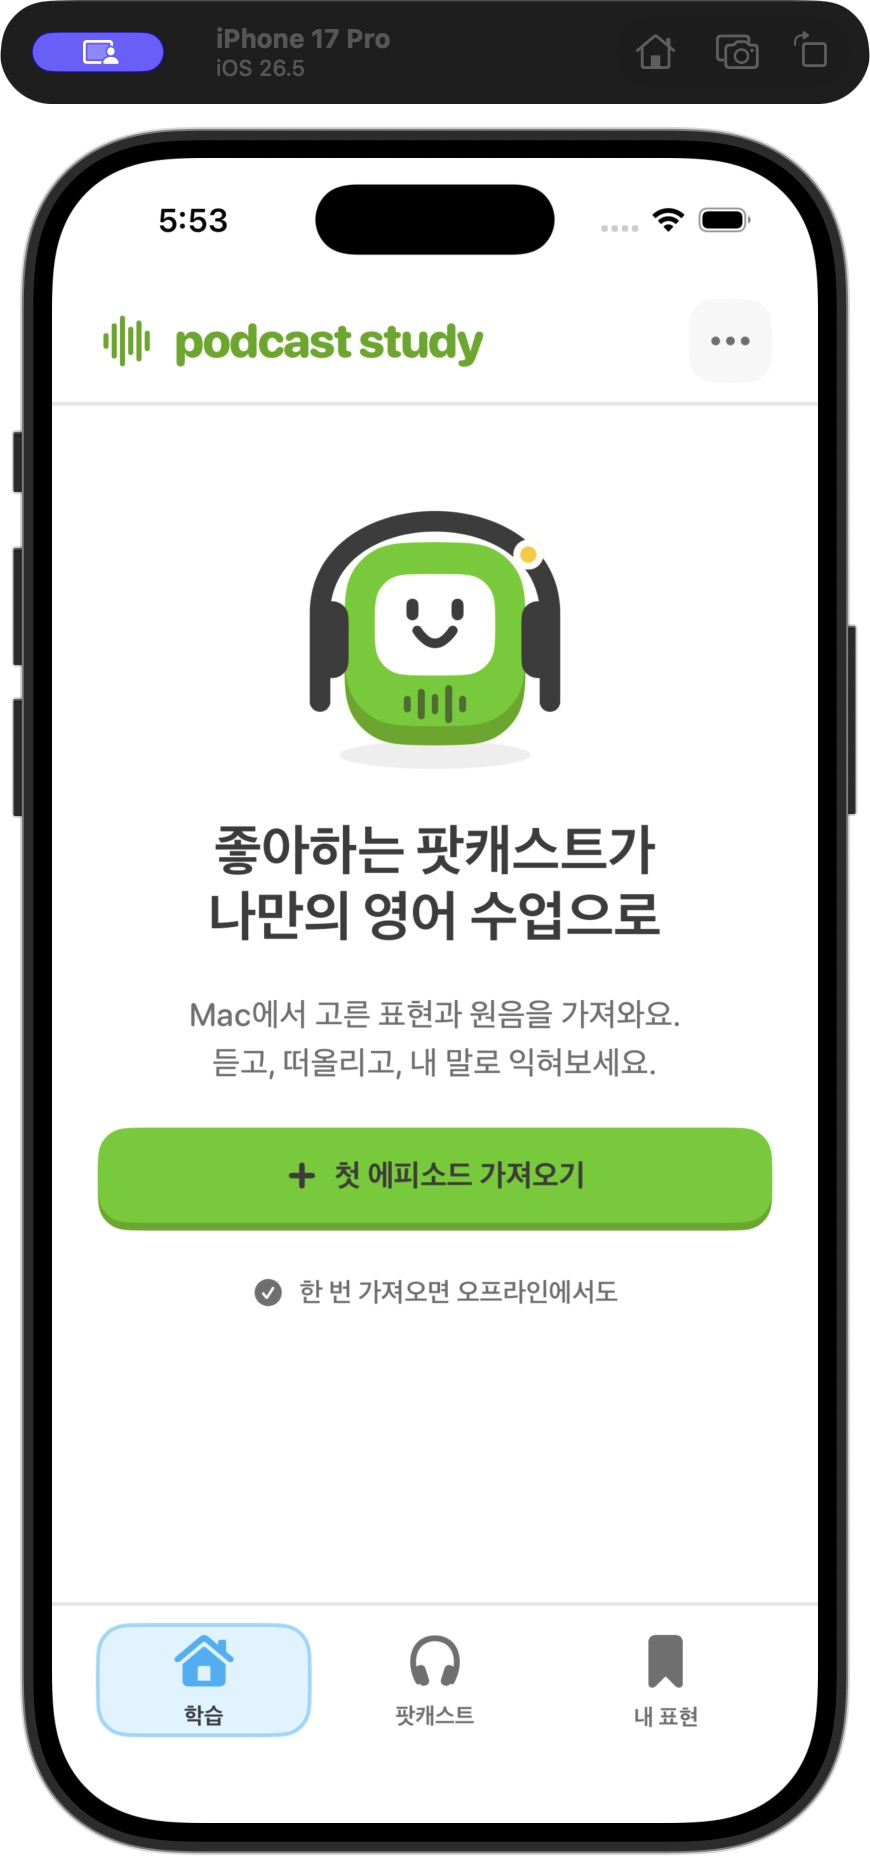
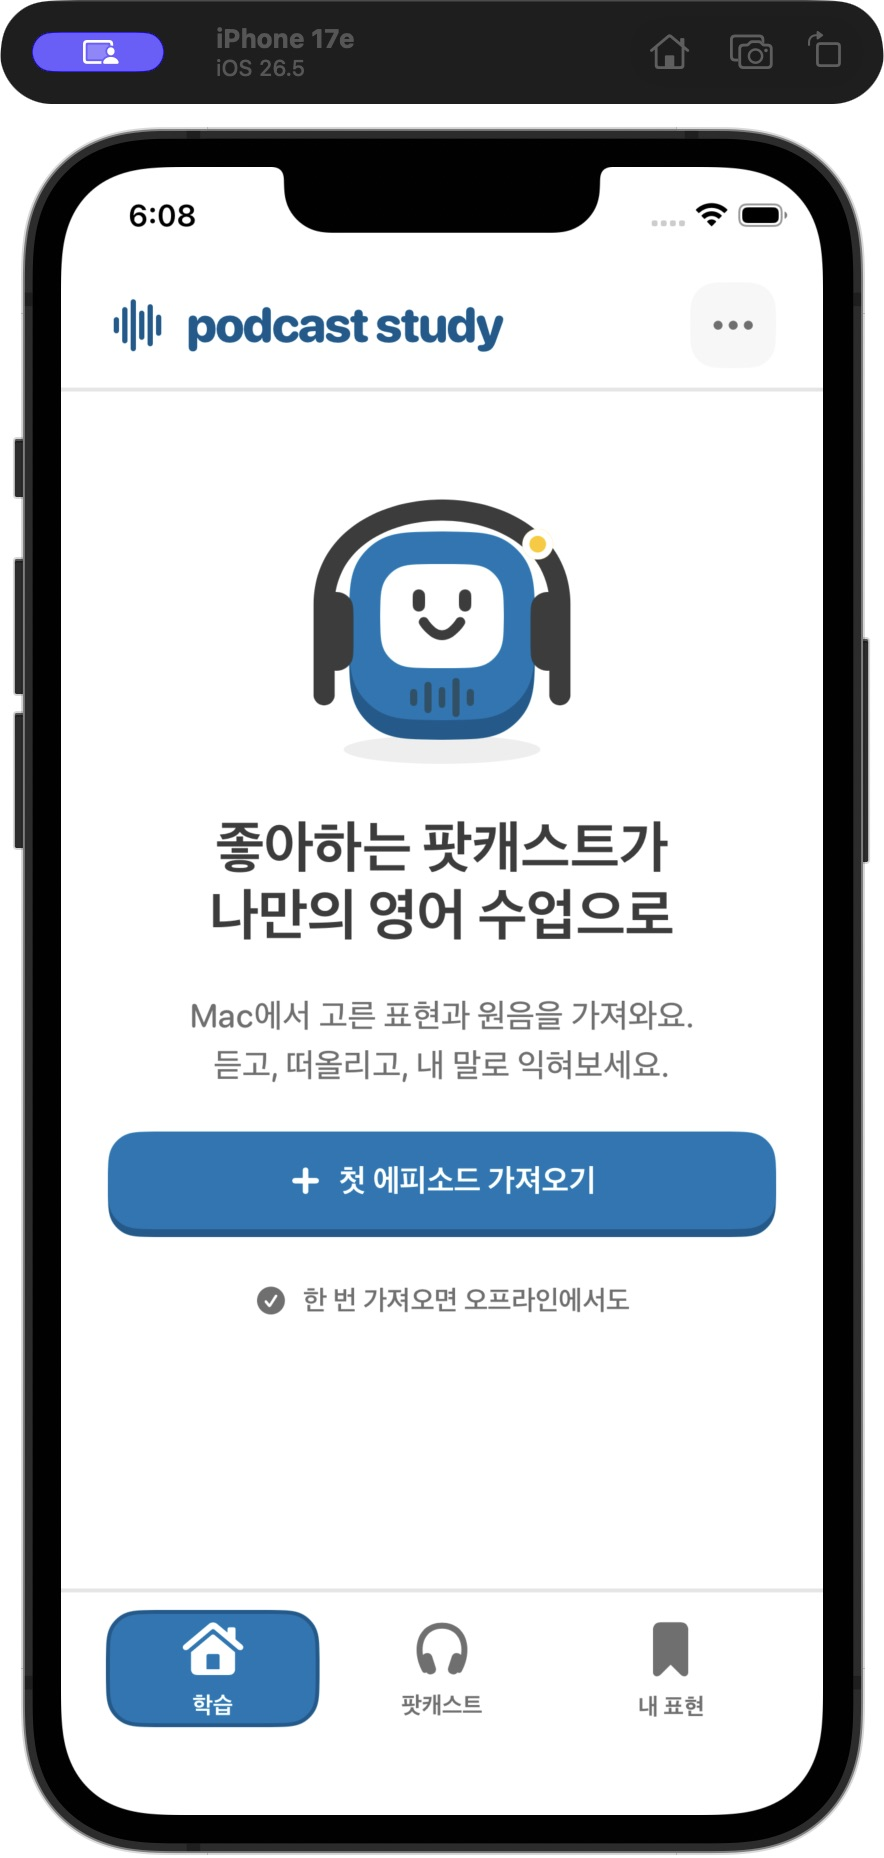
style(ios): unify sky-blue accents and white button labels

diff --git a/ios/PodcastStudy/App/StudyDesign.swift b/ios/PodcastStudy/App/StudyDesign.swift
@@ -8,11 +8,11 @@ enum StudyStyle {
     static let ink = Color(hex: 0x3C3C3C)
     static let muted = Color(hex: 0x6F6F6F)
     static let line = Color(hex: 0xE5E5E5)
-    static let accent = Color(hex: 0x58CC02)
-    static let accentDeep = Color(hex: 0x58A700)
-    static let greenTint = Color(hex: 0xD7FFB8)
-    static let blue = Color(hex: 0x1CB0F6)
-    static let blueTint = Color(hex: 0xDDF4FF)
+    static let accent = Color(hex: 0x0077B6)
+    static let accentDeep = Color(hex: 0x005A8D)
+    static let accentTint = Color(hex: 0xE4F4FC)
+    static let blue = accent
+    static let blueTint = accentTint
     static let yellow = Color(hex: 0xFFC800)
     static let orange = Color(hex: 0xFF9600)
     static let red = Color(hex: 0xFF4B4B)
@@ -67,7 +67,7 @@ struct StudyButtonStyle: ButtonStyle {
         if !isEnabled { return tone == .quiet ? .clear : StudyStyle.line }
         switch tone {
         case .primary: return StudyStyle.accent
-        case .secondary: return StudyStyle.blueTint
+        case .secondary: return StudyStyle.accent
         case .outline: return StudyStyle.paper
         case .quiet: return .clear
         }
@@ -77,9 +77,17 @@ struct StudyButtonStyle: ButtonStyle {
         guard isEnabled else { return StudyStyle.line }
         switch tone {
         case .primary: return StudyStyle.accentDeep
-        case .secondary: return StudyStyle.blue
+        case .secondary: return StudyStyle.accentDeep
         case .outline: return StudyStyle.line
         case .quiet: return .clear
+        }
+    }
+
+    private var labelColor: Color {
+        guard isEnabled else { return StudyStyle.muted }
+        switch tone {
+        case .primary, .secondary: return .white
+        case .outline, .quiet: return StudyStyle.ink
         }
     }
 
@@ -89,14 +97,14 @@ struct StudyButtonStyle: ButtonStyle {
         configuration.label
             .studyFont(16, .heavy)
             .multilineTextAlignment(.center)
-            .foregroundStyle(isEnabled ? StudyStyle.ink : StudyStyle.muted)
+            .foregroundStyle(labelColor)
             .padding(.horizontal, tone == .quiet ? 10 : 18)
             .padding(.vertical, 12)
             .frame(minHeight: 50)
             .background(RoundedRectangle(cornerRadius: 16, style: .continuous).fill(face))
             .overlay {
                 RoundedRectangle(cornerRadius: 16, style: .continuous)
-                    .strokeBorder(tone == .outline || tone == .secondary ? edge : .clear, lineWidth: 2)
+                    .strokeBorder(tone == .outline ? edge : .clear, lineWidth: 2)
             }
             .background {
                 RoundedRectangle(cornerRadius: 16, style: .continuous)

diff --git a/ios/PodcastStudy/App/StudyFeed.swift b/ios/PodcastStudy/App/StudyFeed.swift
@@ -79,9 +79,9 @@ struct StudyFeed: View {
                 } label: {
                     Label(value.rawValue, systemImage: value.symbol)
                         .studyFont(14, .bold).frame(maxWidth: .infinity).frame(minHeight: 44)
-                        .foregroundStyle(mode == value ? StudyStyle.ink : StudyStyle.muted)
-                        .background(mode == value ? StudyStyle.greenTint : StudyStyle.paper, in: RoundedRectangle(cornerRadius: 14))
-                        .overlay(RoundedRectangle(cornerRadius: 14).stroke(mode == value ? StudyStyle.accent : StudyStyle.line, lineWidth: 2))
+                        .foregroundStyle(mode == value ? Color.white : StudyStyle.muted)
+                        .background(mode == value ? StudyStyle.accent : StudyStyle.paper, in: RoundedRectangle(cornerRadius: 14))
+                        .overlay(RoundedRectangle(cornerRadius: 14).stroke(mode == value ? StudyStyle.accentDeep : StudyStyle.line, lineWidth: 2))
                 }.buttonStyle(.plain)
                     .accessibilityLabel("\(value.rawValue) 모드")
                     .accessibilityAddTraits(mode == value ? .isSelected : [])
@@ -143,7 +143,7 @@ struct StudyFeed: View {
                         .studyFont(14, .medium).foregroundStyle(StudyStyle.muted)
                         .multilineTextAlignment(.center)
                 }.padding(20).frame(maxWidth: .infinity)
-                    .background(StudyStyle.greenTint, in: RoundedRectangle(cornerRadius: 20))
+                    .background(StudyStyle.accentTint, in: RoundedRectangle(cornerRadius: 20))
                 Button { dismiss() } label: {
                     Text("학습 마치기").frame(maxWidth: .infinity)
                 }.buttonStyle(StudyButtonStyle())
@@ -255,7 +255,7 @@ struct ExpressionPage: View {
                         .studyFont(26, .bold).foregroundStyle(StudyStyle.blue)
                 }
             }.padding(24).frame(maxWidth: .infinity, alignment: .leading)
-                .background(answerVisible ? StudyStyle.greenTint.opacity(0.5) : StudyStyle.paper, in: RoundedRectangle(cornerRadius: 20))
+                .background(answerVisible ? StudyStyle.accentTint.opacity(0.5) : StudyStyle.paper, in: RoundedRectangle(cornerRadius: 20))
                 .overlay(RoundedRectangle(cornerRadius: 20).stroke(answerVisible ? StudyStyle.accent.opacity(0.45) : StudyStyle.line, lineWidth: 2))
         }
     }

diff --git a/ios/PodcastStudy/App/ContentView.swift b/ios/PodcastStudy/App/ContentView.swift
@@ -120,11 +120,11 @@ struct ContentView: View {
                 } label: {
                     VStack(spacing: 6) {
                         Image(systemName: tab.icon).font(.system(size: 25, weight: .bold))
-                        Text(tab.rawValue).studyFont(12).foregroundStyle(selectedTab == tab ? StudyStyle.ink : StudyStyle.muted)
-                    }.foregroundStyle(selectedTab == tab ? StudyStyle.blue : StudyStyle.muted)
+                        Text(tab.rawValue).studyFont(12).foregroundStyle(selectedTab == tab ? Color.white : StudyStyle.muted)
+                    }.foregroundStyle(selectedTab == tab ? Color.white : StudyStyle.muted)
                         .frame(maxWidth: .infinity, minHeight: 58)
-                        .background(selectedTab == tab ? StudyStyle.blueTint : .clear, in: RoundedRectangle(cornerRadius: 16))
-                        .overlay { RoundedRectangle(cornerRadius: 16).stroke(selectedTab == tab ? StudyStyle.blue.opacity(0.45) : .clear, lineWidth: 2) }
+                        .background(selectedTab == tab ? StudyStyle.accent : .clear, in: RoundedRectangle(cornerRadius: 16))
+                        .overlay { RoundedRectangle(cornerRadius: 16).stroke(selectedTab == tab ? StudyStyle.accentDeep : .clear, lineWidth: 2) }
                 }.buttonStyle(.plain).accessibilityAddTraits(selectedTab == tab ? .isSelected : [])
             }
         }.padding(.horizontal, 24).padding(.top, 12).padding(.bottom, 12)
@@ -210,7 +210,7 @@ struct ContentView: View {
                 }
             }.buttonStyle(StudyButtonStyle()).disabled(queue.isEmpty)
         }.padding(22)
-            .background(StudyStyle.greenTint.opacity(0.55), in: RoundedRectangle(cornerRadius: 24))
+            .background(StudyStyle.accentTint.opacity(0.55), in: RoundedRectangle(cornerRadius: 24))
             .overlay { RoundedRectangle(cornerRadius: 24).stroke(StudyStyle.accent.opacity(0.35), lineWidth: 2) }
     }
 

diff --git a/DESIGN.md b/DESIGN.md
@@ -1,10 +1,10 @@
 # Podcast Study 디자인 가이드
 
-Duolingo의 밝고 둥근 학습 경험을 벤치마킹해, 내가 듣는 팟캐스트를 매일 연습하는 개인용 앱에 적용한다. **흰 배경·선명한 초록·둥근 굵은 글자·단단한 버튼 아래쪽 면·명확한 다음 행동**을 공통 언어로 삼는다.
+Duolingo의 밝고 둥근 학습 경험을 벤치마킹해, 내가 듣는 팟캐스트를 매일 연습하는 개인용 앱에 적용한다. **흰 배경·진한 하늘색·둥근 굵은 글자·단단한 버튼 아래쪽 면·명확한 다음 행동**을 공통 언어로 삼는다.
 
 현재 앱의 첫 화면입니다. 실제 iOS Simulator 캡처이며, 학습 기록이 없는 상태입니다.
 
-<img src="docs/design/onboarding.png" alt="밝은 초록 버튼과 헤드폰 캐릭터를 적용한 Podcast Study 첫 화면" width="300">
+<img src="docs/design/onboarding.png" alt="진한 하늘색 버튼과 헤드폰 캐릭터를 적용한 Podcast Study 첫 화면" width="300">
 
 ## 근거와 적용 범위
 
@@ -15,7 +15,7 @@ Duolingo의 밝고 둥근 학습 경험을 벤치마킹해, 내가 듣는 팟캐
 - [공식 사이트](https://www.duolingo.com/)가 직접 불러오는 [공개 웹 번들](https://d35aaqx5ub95lt.cloudfront.net/js/4779-0fb1dea3.js)에서 `owl`, `tree-frog`, `snow`, `polar`, `swan`, `macaw`, `bee`, `fox`, `cardinal`, `sea-sponge`, `iguana`의 아래 색상값을 확인했다. 이는 2026-10-28에 관찰한 웹 구현이며 전체 iOS 디자인 명세를 뜻하지 않는다. [앱 번들](https://d35aaqx5ub95lt.cloudfront.net/js/app-c4519c5a.js)의 `black-text`는 `#3C3C3C`다.
 - 기존 `design.duolingo.com/identity/color`와 `/identity/typography` 주소는 확인 시 디자인 블로그로 이동했다. 원래 문서의 현재 상세 명세는 확인하지 못했다.
 
-색상 관찰을 제외한 아래 크기·간격·동작 시간은 **Podcast Study의 구현 제안값**이다. Duolingo의 로고·Duo 캐릭터·전용 폰트 파일을 사용하지 않는다. 앱의 그림은 헤드폰을 쓴 오디오 플레이어 캐릭터 `PodcastBuddy`로 직접 그린다.
+레퍼런스의 색상은 관찰 근거로만 남기고, 앱의 키컬러는 진한 하늘색으로 독립적으로 정했다. 아래 앱 팔레트·크기·간격·동작 시간은 **Podcast Study의 구현 제안값**이다. Duolingo의 로고·Duo 캐릭터·전용 폰트 파일을 사용하지 않는다. 앱의 그림은 헤드폰을 쓴 오디오 플레이어 캐릭터 `PodcastBuddy`로 직접 그린다.
 
 ## 1. 색상
 
@@ -26,18 +26,18 @@ Duolingo의 밝고 둥근 학습 경험을 벤치마킹해, 내가 듣는 팟캐
 | `ink` | `#3C3C3C` | 제목·본문·주요 버튼 글자 |
 | `muted` | `#6F6F6F` | 보조 설명. 이 프로젝트의 가독성 조정값 |
 | `line` | `#E5E5E5` | 구분선·진행 트랙·외곽선 |
-| `accent` | `#58CC02` | 주 CTA·현재 학습·진행 표시 |
-| `accentDeep` | `#58A700` | 초록 버튼의 아래쪽 면 |
-| `greenTint` | `#D7FFB8` | 선택·완료 피드백 배경 |
-| `blue` | `#1CB0F6` | 원음·듣기·보조 강조 |
-| `blueTint` | `#DDF4FF` | 음성 버튼·보조 안내 면 |
+| `accent` | `#0077B6` | 주 CTA·현재 학습·진행 표시 |
+| `accentDeep` | `#005A8D` | 하늘색 버튼의 아래쪽 면 |
+| `accentTint` | `#E4F4FC` | 선택·완료 피드백 배경 |
+| `blue` | `accent`와 동일 | 원음·듣기도 같은 키컬러 사용 |
+| `blueTint` | `accentTint`와 동일 | 음성 버튼·보조 안내 면 |
 | `yellow` | `#FFC800` | 완료 장식과 실제 성취 강조 |
 | `orange` | `#FF9600` | 연습·주의 상태의 보조 표시 |
 | `red` | `#FF4B4B` | 오류 아이콘·경계 등 제한된 강조 |
 
-초록은 화면 전체를 칠하는 배경보다 **시작·계속·선택**에 집중한다. 빨강은 틀렸다는 처벌에 사용하지 않는다. `다시 연습`은 정상적인 학습 선택이다.
+하늘색은 화면 전체를 칠하는 배경보다 **시작·계속·선택**에 집중한다. 빨강은 틀렸다는 처벌에 사용하지 않는다. `다시 연습`은 정상적인 학습 선택이다.
 
-`#58CC02`에 흰색을 올리면 계산 대비가 약 2.09:1이므로 이 앱의 기본 초록 버튼은 `ink` 글자를 쓴다(약 5.28:1). 이 차이는 의도적인 가독성 조정이다. 보조 텍스트도 옅은 회색을 복사하지 않고 `#6F6F6F`를 사용한다. 색만으로 정답·완료·선택을 전달하지 않고 아이콘과 문구를 함께 둔다.
+기본·음성 버튼과 선택된 모드·하단 탭은 모두 `#0077B6` 면에 **흰색 글자와 아이콘**을 사용한다. 흰색 글자와의 계산 대비는 약 4.87:1이다. 비활성 버튼은 회색 면과 회색 글자로 구분한다. 흰 면의 외곽선 버튼은 짙은 회색 글자를 유지한다. 보조 텍스트는 `#6F6F6F`를 사용하며, 색만으로 완료·선택을 전달하지 않고 아이콘과 문구를 함께 둔다.
 
 ## 2. 글자와 간격
 
@@ -54,8 +54,8 @@ Duolingo의 밝고 둥근 학습 경험을 벤치마킹해, 내가 듣는 팟캐
 
 | 종류 | 면 | 아래쪽 면·외곽선 | 사용 |
 |---|---|---|---|
-| primary | 초록 | 진한 초록 | 학습 시작·답 확인·떠올렸어요 |
-| secondary | 옅은 파랑 | 파랑 | 원음 듣기·반복 |
+| primary | 진한 하늘색·흰 글자 | 더 짙은 하늘색 | 학습 시작·답 확인·떠올렸어요 |
+| secondary | 진한 하늘색·흰 글자 | 더 짙은 하늘색 | 원음 듣기·반복 |
 | outline | 흰색 | 회색 | 다시 연습·보조 행동 |
 | quiet | 투명 | 없음 | 닫기·설정·낮은 우선순위 |
 
@@ -65,9 +65,9 @@ Duolingo의 밝고 둥근 학습 경험을 벤치마킹해, 내가 듣는 팟캐
 
 ## 4. 카드·진행·내비게이션
 
-**카드:** 학습 문장, 에피소드 선택처럼 묶음 자체가 기능일 때만 사용한다. 흰 면, 2pt 회색 외곽선, 20~24pt 모서리, 내부 여백 20~24pt가 기준이다. 모든 설명과 통계에 카드를 덧씌우지 않는다. 선택된 에피소드·모드는 초록/파랑 면과 체크·문구로 표시한다.
+**카드:** 학습 문장, 에피소드 선택처럼 묶음 자체가 기능일 때만 사용한다. 흰 면, 2pt 회색 외곽선, 20~24pt 모서리, 내부 여백 20~24pt가 기준이다. 모든 설명과 통계에 카드를 덧씌우지 않는다. 선택된 에피소드·모드는 하늘색 면과 체크·문구로 표시한다.
 
-**진행:** 높이 16pt의 둥근 회색 트랙과 초록 막대, 얇은 밝은 하이라이트로 구성한다. 현재 카드 위치와 실제 평가한 개수는 구분한다. 넘겨 본 표현을 외운 표현으로 표시하지 않는다. 완료 문구도 `10개 중 3개 복습 기록`처럼 실제 기록을 말한다.
+**진행:** 높이 16pt의 둥근 회색 트랙과 하늘색 막대, 얇은 밝은 하이라이트로 구성한다. 현재 카드 위치와 실제 평가한 개수는 구분한다. 넘겨 본 표현을 외운 표현으로 표시하지 않는다. 완료 문구도 `10개 중 3개 복습 기록`처럼 실제 기록을 말한다.
 
 **하단 탭:** 오늘·에피소드·내 표현 세 목적을 유지한다. 각 탭의 아이콘과 짧은 한글 이름을 함께 제공하고 현재 선택은 색·배경/형태로 표현한다. 세 탭의 헤더와 여백을 맞춘다. Mac 미리보기에서는 플랫폼 탭 표현이 달라질 수 있다.
 

diff --git a/ios/VALIDATION.md b/ios/VALIDATION.md
@@ -67,3 +67,10 @@ Xcode가 있는 환경에서는 `python3 ios/verify.py --require-ios`로 iOS Sim
 가로 넘기기에는 표준 page TabView를 유지했습니다. 자동화 드래그만으로 가로 터치 제스처 동작을 확정하지 못했으므로, 이번 실행 기록은 화살표에 의한 카드 이동만 검증한 것으로 한정합니다. 물리적 기기의 스와이프·오디오 중단·VoiceOver·큰 글자 전체 조합은 별도 검수 항목입니다.
 
 화면 비교를 위해 빈 상태의 캡처만 `docs/design/onboarding.png`에 문서 자산으로 포함했습니다. 실제 학습 내용이 있는 캡처와 테스트용 학습 파일은 Git에 포함하지 않습니다.
+
+
+## 하늘색 키컬러 조정
+
+사용자 요청에 따라 키컬러를 `#0077B6`, 진한 아래쪽 면을 `#005A8D`, 옅은 면을 `#E4F4FC`로 통일했습니다. 기본·원음 버튼과 선택된 모드/하단 탭의 글자·아이콘은 흰색입니다. 비활성 회색 버튼과 흰색 외곽선 버튼은 별도 상태 색을 유지합니다.
+
+`python3 ios/verify.py --require-ios` 통과, iOS Simulator 빌드 성공. 실제 iPhone 17 Pro 및 iPhone 17e 시뮬레이터에서 하늘색 키컬러와 흰색 버튼 글자를 확인했고, 문서의 빈 상태 캡처도 갱신했습니다.
